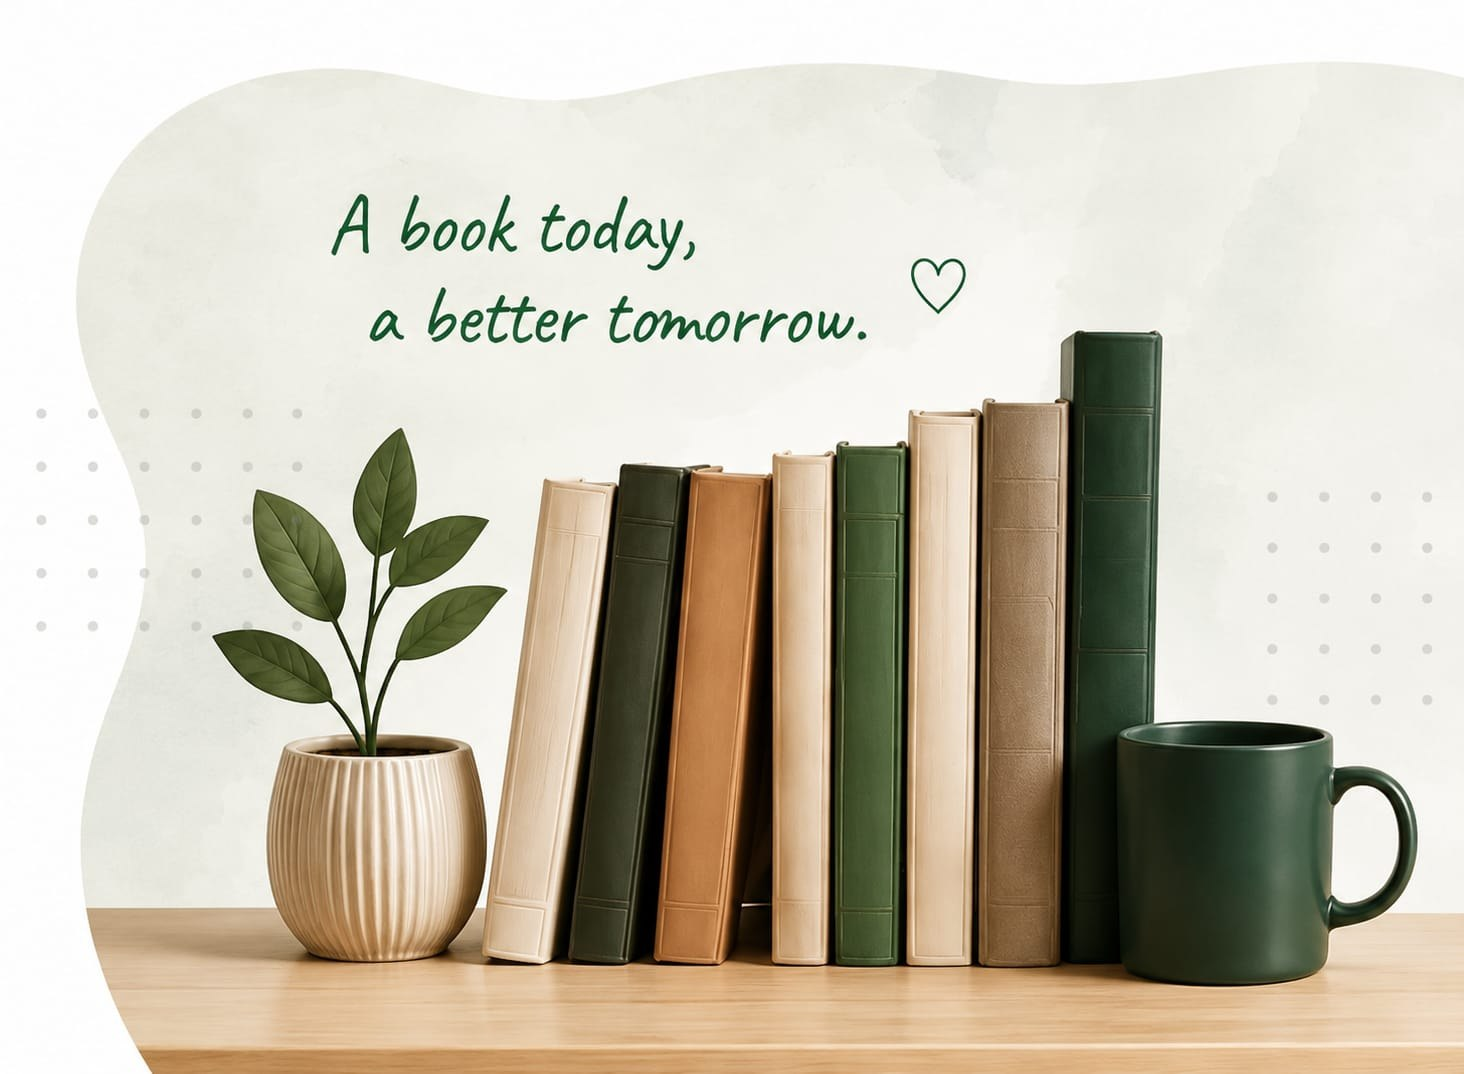
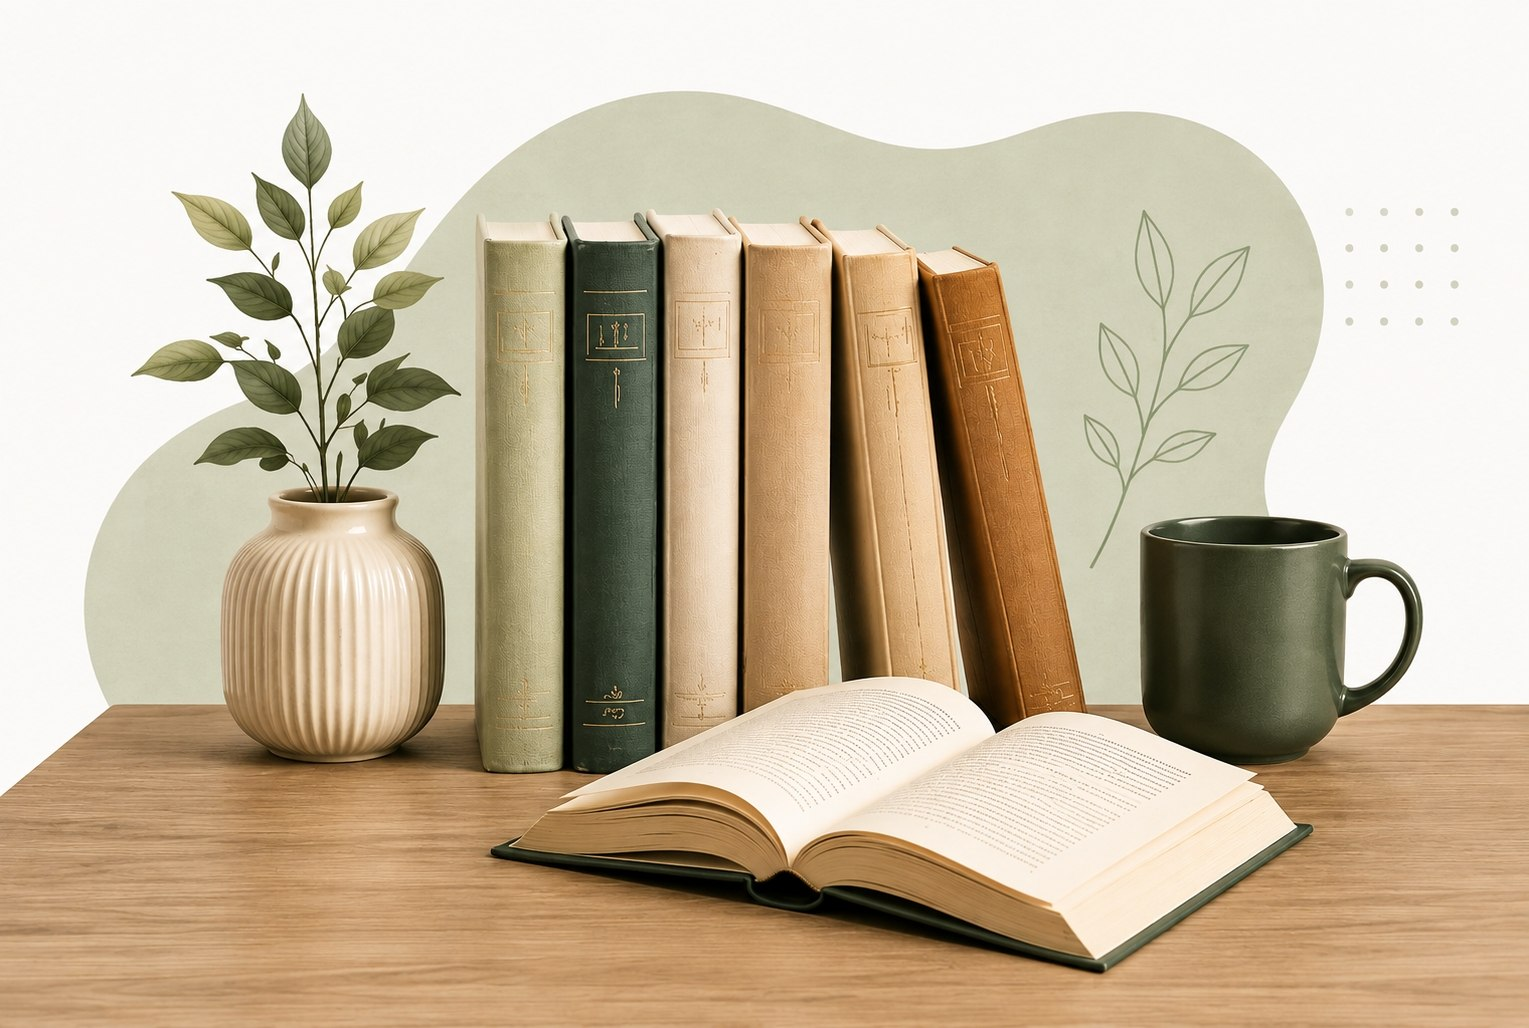
Add Section in About page

diff --git a/about.html b/about.html
@@ -61,7 +61,214 @@
   </nav>
   <!--End Nav-->
 
-    <!--Start Content-->
+
+
+  <!--Start Landing Section-->
+  <section class="landing d-flex justify-content-md-between align-items-center flex-lg-row container-fluid my-5">
+
+    <div class="info ms-lg-2 p-4">
+      <div class="ms-lg-5 text-center text-md-start">
+        <p class="fst-italic fs-5 text-green fw-semibold">About Malath <span class="heart">&#9825;</span></p>
+        <h1 class="mb-4 lh-1 fst-italic">More than a platform, <br> we are a community <br>built on <span class="text-green">stories and trust.</span></h1>
+        <p class="mb-5 text-muted">At Malath, we connect book lovers and knowledge <br class="d-block d-lg-none"> seekers <br class="d-none d-lg-block"> in a safe space where sharing, borrowing, <br class="d-block d-lg-none"> and discovering <br class="break d-none d-lg-block">books become a way of life. <br class="d-block d-lg-none"> Together, we inspire,learn,and <br class="break d-none d-lg-block"> grow - <br class="d-block d-lg-none"> one book at a time.</p>
+        <div class="mb-2 d-flex container-fluid ms-0">
+          <a href="./sign-up.html"><button class="btn btn-success me-2"><i class="bi bi-people me-2"></i> Join Our Community</button></a>
+          <a href="./sign-up.html"><button class="btn btn-outline-success">Discover how it works <i class="fa-solid fa-angles-right"></i></button></a>
+        </div>
+      </div>
+    </div>
+    
+    
+    <div class="image bg-info w-50 my-md-auto">
+      <img src="./assets/landing.jpg" alt="Landing" class="w-100">
+    </div>
+  </section>
+
+  <!--End Landing Section-->
+
+
+  <!--Start Story Section-->
+  <section class="story container-lg container-md-fluid my-5  p-3 border border-1 rounded-5">
+    <div class="row">
+
+      <div class="left col-md-4 col-lg-4 ps-md-5 text-center text-md-start">
+        <h2 class="my-4">Our Story</h2>
+        <p class="text-muted lh-lg mb-md-5 mb-lg-2">It all started with a simple idea: reading <br class=" d-sm-block d-md-none d-lg-block"> changes lives.We saw how many great <br class="d-sm-block d-md-none d-lg-block"> books stay on shelves, unread, while <br class="d-sm-block d-md-none d-lg-block">someone else is looking for the exact <br class="d-sm-block d-md-none d-lg-block"> book we own.</p>
+        <p class="text-muted lh-lg">So we created Malath - a bridge between <br class="d-sm-block d-md-none d-lg-block">book lovers and knowlege seekers. A place <br class="d-sm-block d-md-none d-lg-block">where sharing is easy,borrowing is safe, <br class="d-sm-block d-md-none d-lg-block">and everyone can grow together.</p>
+      </div>
+
+
+      <div class="right col-md-8 col-lg-8">
+        <div class="row mt-lg-5">
+
+
+          <div class="col-md-6 col-lg-3 text-center ms-auto">
+            <div class="count mx-auto my-4">
+              <h3>01</h3>
+            </div>
+            <i class="bi bi-book fs-1 text-green"></i>
+            <h5 class="text-green mt-2">Books</h5>
+            <p class="text-muted mb-lg-5">Every book has a <br>story, and every story <br>deserves to be read.</p>
+          </div>
+  
+  
+  
+          <div class="col-md-6 col-lg-3 text-center  ms-auto">
+             <div class="count mx-auto my-4">
+              <h3>02</h3>
+            </div>
+            <i class="bi bi-people fs-1 text-green"></i>
+            <h5 class="text-green mt-2">Readers</h5>
+            <p class="text-muted mb-lg-5">We connect readers <br> who want to explore, <br> learn, and be insired</p>
+          </div>
+  
+  
+          <div class="col-md-6 col-lg-3 text-center ms-auto">
+           <div class="count mx-auto my-4">
+              <h3>03</h3>
+            </div>
+            <i class="bi bi-globe2 fs-1 text-green"></i>
+            <h5 class="text-green mt-2">Community</h5>
+            <p class="text-muted mb-lg-5">We build a community <br> where trust, respect, <br> and kindness thrive.</p>
+          </div>
+  
+  
+  
+          <div class="col-md-6 col-lg-3 text-center ms-auto">
+            <div class="count mx-auto my-4">
+              <h3>04</h3>
+            </div>
+            <i class="fa-solid fa-seedling fs-1 text-green"></i>
+            <h5 class="text-green mt-2">Growth</h5>
+            <p class="text-muted mb-lg-5">Together, we create <br> a culture of learning <br> that never stops.</p>
+          </div>
+  
+        </div>
+      </div>
+    </div>
+
+
+
+  </section>
+  <!--End Story Section-->
+
+
+
+  <!--Start Mission Section -->
+    <section class="mission container-fluid mb-5">
+      <div class="row column-gap-5">
+
+        <div class="col-lg-6 border border-1 rounded-5 ms-lg-3">
+            <div class="description pt-5">
+              <h2 class="mb-3">Our Mission</h2>
+              <p class="text-muted lh-lg">To make knowledge accessible to everyone <br> by encouraging book sharing and borrowing <br> in a simple,secure,and meaningful way.</p>
+              <p class="text-muted lh-lg">We aim to reduce book waste,spread <br>learning opportunities, and support a more <br> conscious and connected society.</p>
+            </div>
+        </div>
+
+
+
+        <div class="col-lg-5 pt-5 border border-1 rounded-5 ps-4">
+          <h2>What We Do</h2>
+          <div class="info my-4">
+
+            <div class="box d-flex align-items-center my-3 ">
+              <i class="fa-solid fa-magnifying-glass count fs-4 me-3"></i>
+              <div>
+                <h6 class="text-green my-0">Discover Books</h6>
+                <p class="text-muted fs-14">Find books you love from people around you.</p>
+              </div>
+            </div>
+
+
+            <div class="box d-flex align-items-center my-3">
+              <i class="bi bi-send count fs-4 me-3"></i>
+              <div>
+                <h6 class="text-green my-0">Request & Connect</h6>
+                <p class="text-muted fs-14">Send requests and connect with trusted members.</p>
+              </div>
+            </div>
+
+
+
+            <div class="box d-flex align-items-center my-3">
+              <i class="bi bi-book count fs-4 me-3"></i> 
+              <div>
+                <h6 class="text-green my-0">Borrow & Read</h6>
+                <p class="text-muted fs-14">Borrow,read,and enjou you next great read.</p>
+              </div>
+            </div>
+
+
+            <div class="box d-flex align-items-center my-3">
+              <i class="bi bi-heart count fs-4 me-3"></i>
+              <div>
+                <h6 class="text-green my-0">Share & Inspire</h6>
+                <p class="text-muted fs-14">Share your books and inspire someone else.</p>
+              </div>
+            </div>
+
+
+          </div>
+        </div>
+      </div>
+    </section>
+  <!--Start Mission Section-->
+
+
+
+
+  <!--Start Section 4-->
+    <section class="text-center mb-5">
+      <h2>What We Believe In</h2>
+      <div class="container-fluid">
+        <div class="row">
+
+          <div class="col-lg-2">
+              <i class="bi bi-people me-2 text-green bg-section icon"></i> 
+              <h5>Community</h5>
+              <p>We believe in the power <br> of people and the beauty <br> of shared knowledge</p>
+          </div>
+
+
+          <div class="col-lg-2">
+              <i class="bi bi-people me-2 text-green bg-section icon"></i> 
+              <h5>Trust</h5>
+              <p>A safe and reliable space <br> built on respect, <br> honesty, and trust.</p>
+          </div>
+
+
+
+          <div class="col-lg-2">
+              <i class="bi bi-people me-2 text-green bg-section icon"></i> 
+              <h5>Access</h5>
+              <p>Books and knowledge <br>should be accessible <br> to everyone.</p>
+          </div>
+
+
+
+          <div class="col-lg-2 bg-warning">
+              <i class="bi bi-people me-2 text-green bg-section icon"></i> 
+              <h5>Sustainability</h5>
+              <p>Sharing books means <br> less waste and a more <br> sustainable world.</p>
+          </div>
+
+
+
+          <div class="col-lg-2">
+              <i class="bi bi-people me-2 text-green bg-section icon"></i> 
+              <h5>Empathy</h5>
+              <p>We treat every membet <br> with kindness and <br>understanding.</p>
+          </div>
+        </div>
+
+
+
+      </div>
+    </section>
+  <!--End Section 4-->
+
+    <!--Start Content--
         <section class="landing container-fluid d-flex align-items-start justify-content-between mt-5">
            
                 <div class="info p-2 ps-md-5 ms-md-auto mt-lg-5 h-75">
@@ -168,10 +375,30 @@
         <!--End Stats-->
 
 
+        <!--Start Last Section-->
+        <section class="bg-danger mb-5 container-fluid">
+          <div class="row">
+
+            <div class="col-4">
+              <q>A book is a gift <br>you can open again <br> and again.</q>
+            </div>
+            
+            <div class="image col-4">
+              
+            </div>
+  
+            <div class="col-4">
+              <h4>Have a book that <br> Changed you?</h4>
+              <p>Share it, and change <br>someone else's story</p>
+              <a href="./addBooks.html"><button class="btn btn-success">Share a Book</button></a>
+            </div>
+          </div>
+
+        </section>
+        <!--End Last Section-->
 
 
-
-        <!--Start  Mission and Vision-->
+        <!--Start  Mission and Vision--
         <section class="container my-4 ">
           <div class="row column-gap-2">
 
@@ -201,7 +428,7 @@
 
 
         
-        <!--Start Category section-->
+        <!--Start Category section--
         <section class="my-4">
           <div class="one d-flex align-items-center justify-content-between">
             <div class="iconss d-flex justify-content-center align-items-center ms-4">
@@ -250,7 +477,7 @@
       
 
 
-        <!--Start Join Section-->
+        <!--Start Join Section--
         <section class="container my-4 bg-section p-3">
           <div class="text-center">
             <h4>Ready to be part of our community?</h4>

diff --git a/css/style.css b/css/style.css
@@ -66,6 +66,31 @@ html {
 .icon {
   width: 40px;
   height: 40px;
+  display: flex !important;
+  justify-content: center;
+  align-items: center;
+  flex-shrink: 0;
+  border-radius: 50%;
+  -webkit-border-radius: 50%;
+  -moz-border-radius: 50%;
+  -ms-border-radius: 50%;
+  -o-border-radius: 50%;
+}
+@media (max-width: 767px){
+  .landing{
+    flex-direction: column !important;
+  }
+  .landing .image ,
+  .landing .image img{
+    width: 100% !important;
+  }
+}
+.count{
+  /*background-color: #fef2e9;*/
+  background-color: #EBF1EC;
+  color: var(--primary-green-color);
+  width: 60px;
+  height: 60px;
   display: flex;
   justify-content: center;
   align-items: center;
@@ -76,6 +101,24 @@ html {
   -ms-border-radius: 50%;
   -o-border-radius: 50%;
 }
+.mission .description{
+  background-image: url(../assets/mission.jpg);
+  background-size: cover;
+  padding-left: 300px;
+  padding-bottom: 100px;
+  border-radius: 8px;
+  -webkit-border-radius: 8px;
+  -moz-border-radius: 8px;
+  -ms-border-radius: 8px;
+  -o-border-radius: 8px;
+  overflow: hidden;
+  background-position: center;
+}
+/*@media (max-width: 991px){
+  .landing .break{
+    display: none !important;
+  }
+}*/
 /*.mission{
   background-image: url(../assets/mission-background.jpg);
   background-size: cover;
